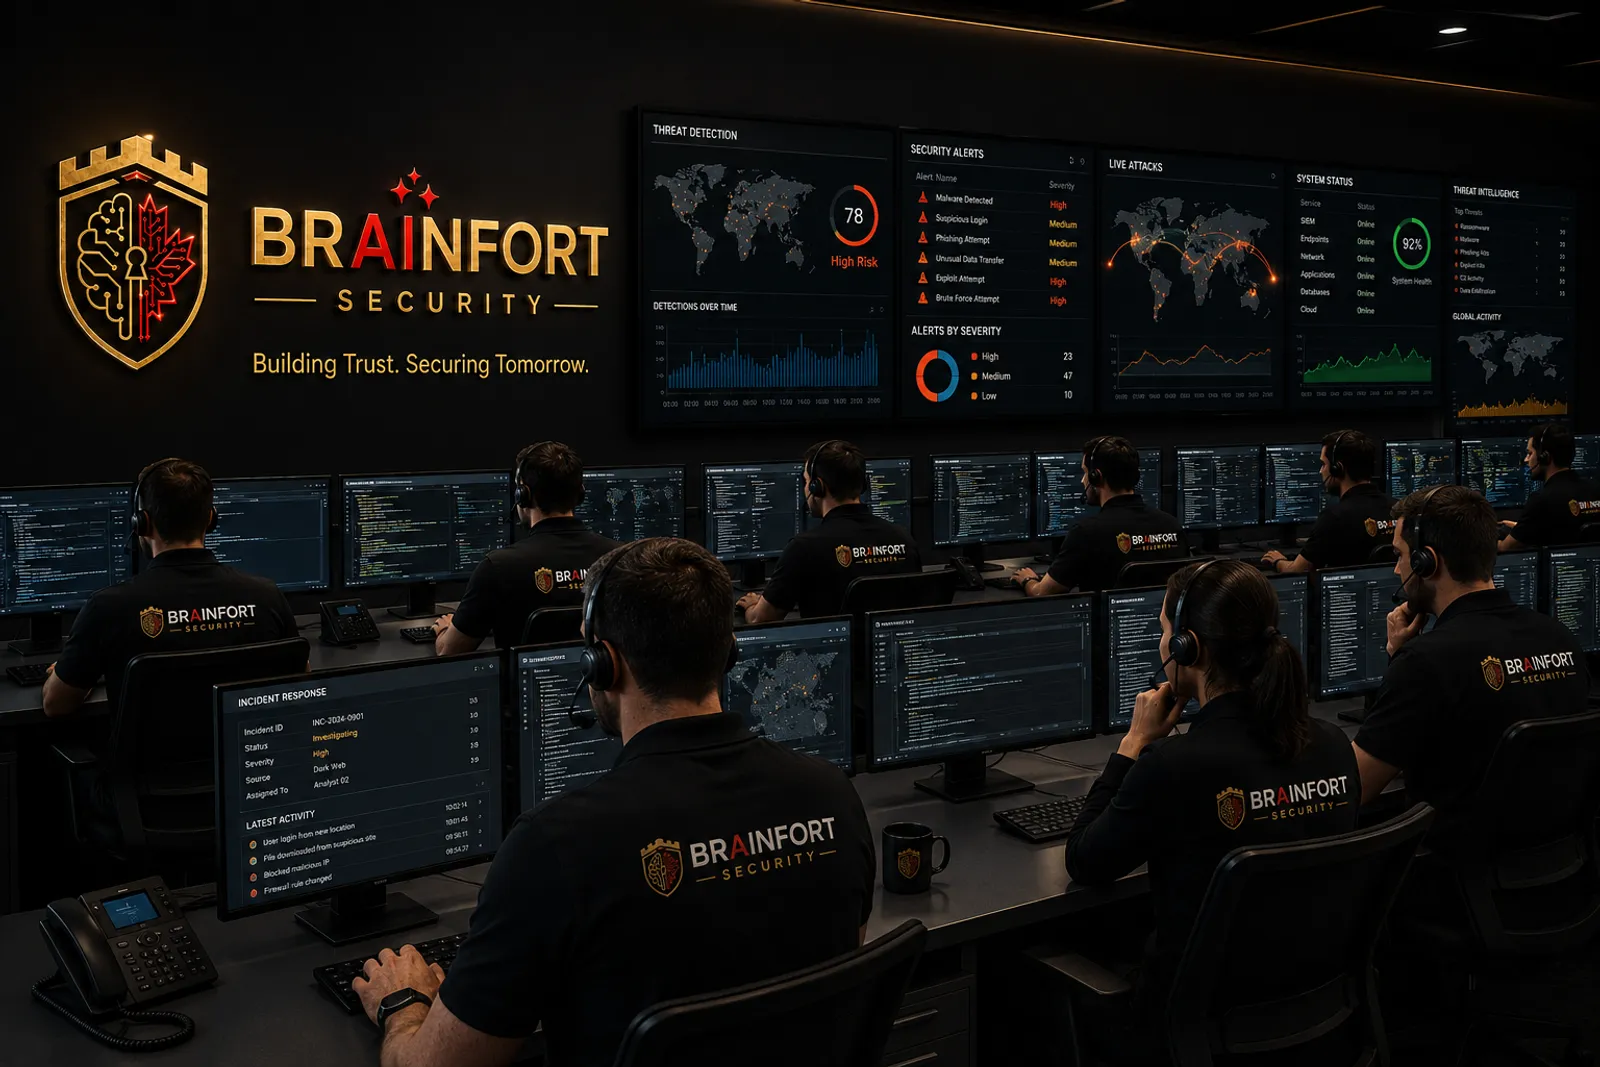
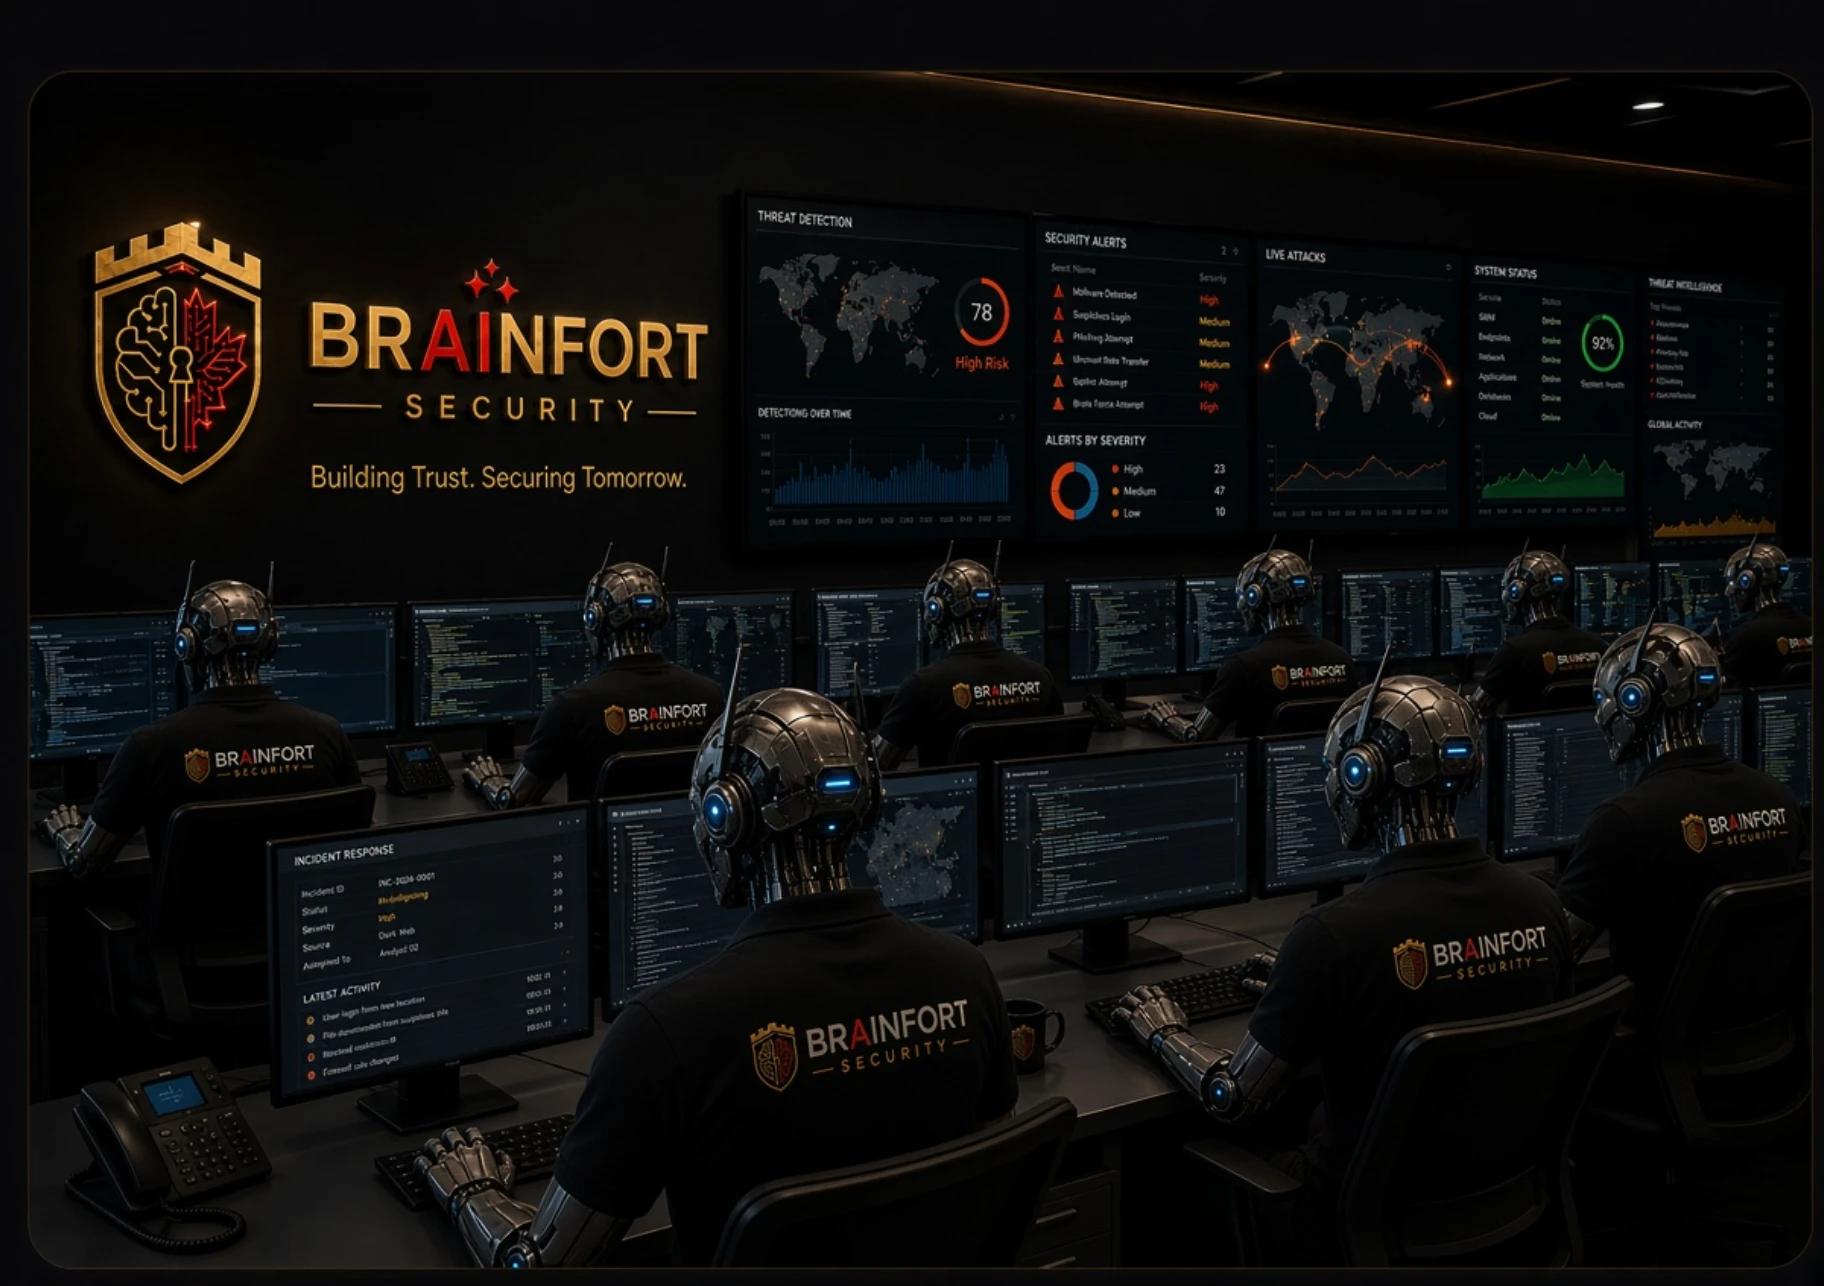
Replace About page SOC team photo with the new agentic-AI operations room image

diff --git a/src/app/[locale]/about/page.tsx b/src/app/[locale]/about/page.tsx
@@ -58,8 +58,8 @@ export default async function AboutPage({ params }: PageProps) {
             <Image
               src="/about/soc-team.webp"
               alt={dict.aboutPage.teamImageAlt}
-              width={1600}
-              height={1067}
+              width={1824}
+              height={1286}
               className="card-lift w-full rounded-3xl border border-border"
             />
           </Reveal>
